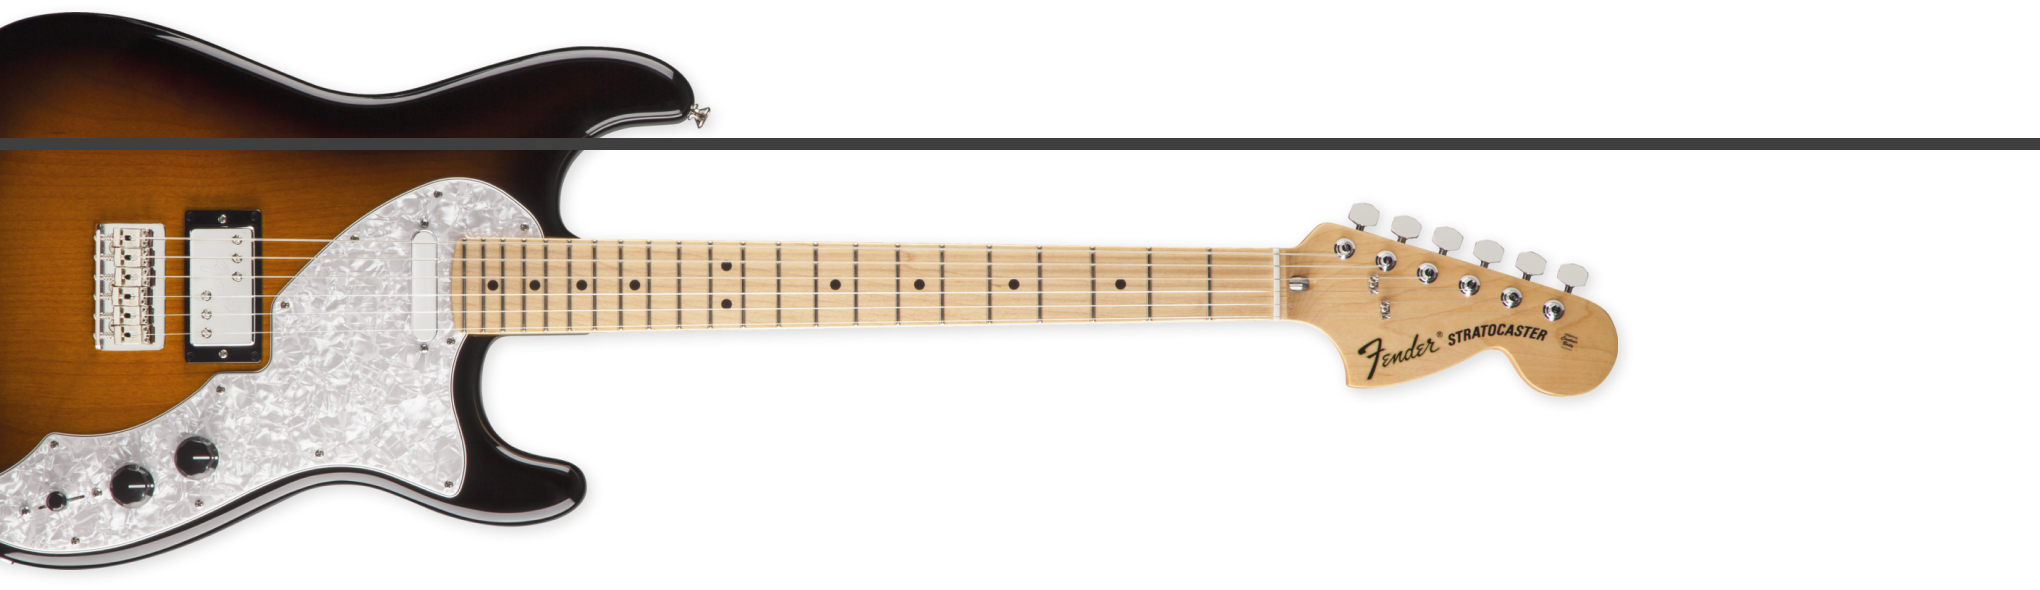
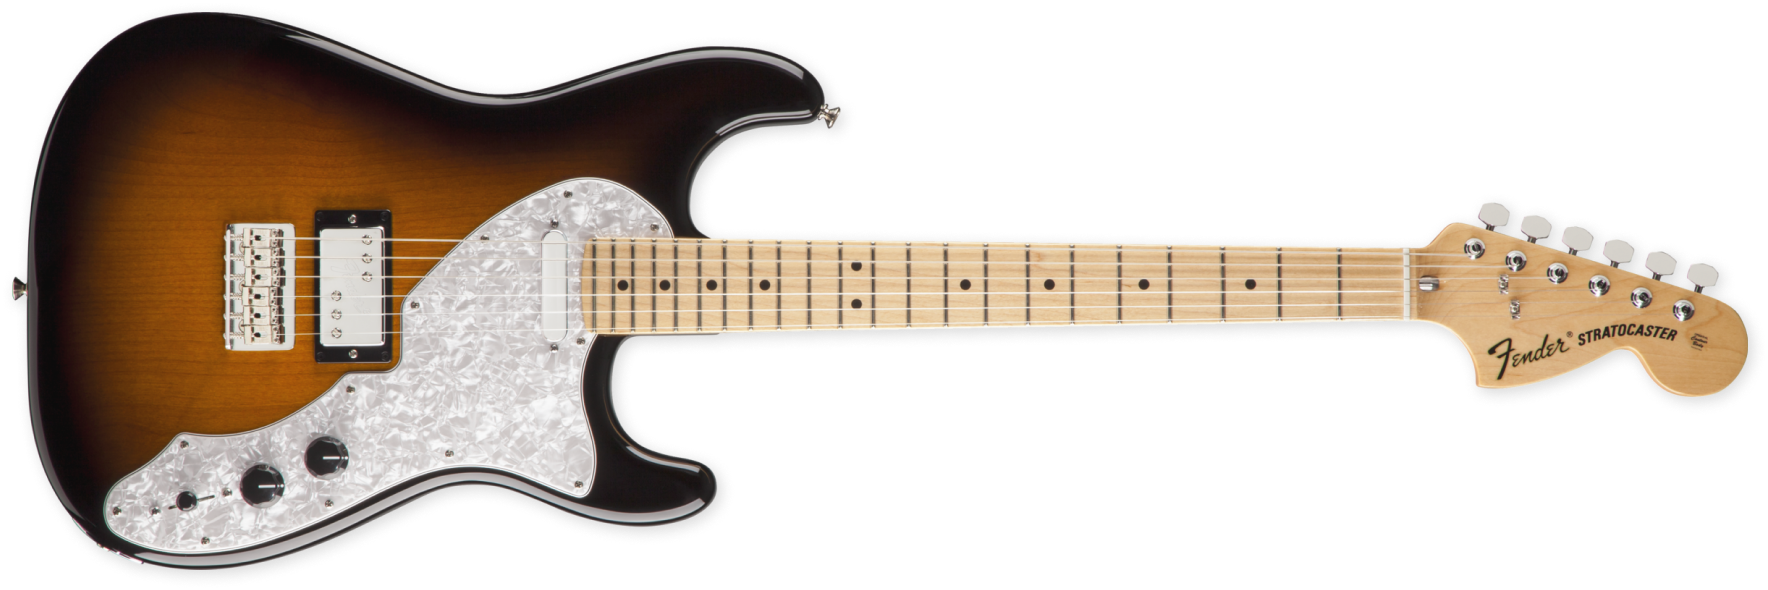
Fixed guitar background

diff --git a/src/components/footer/footer.scss b/src/components/footer/footer.scss
@@ -4,9 +4,38 @@
 @import '../../styles/title.scss';
 
 .footer {
-    z-index: 20;
     position: relative;
     background-color: $dark-grey;
+    &::after {
+        content: "";
+        display: block;
+        background-color: transparent;
+        background-image: url(../../img/guitar-footer.png);
+        background-repeat: no-repeat;
+        background-position: left;
+        position: absolute;
+        background-size: auto 100%;
+        width: 100%;
+        height: 282px;
+        top: -83px;
+        left: -5%;
+        z-index: -1;
+    }
+    &::before {
+        content: "";
+        display: block;
+        background-color: transparent;
+        background-image: url(../../img/line-footer.svg);
+        background-repeat: repeat;
+        background-position: left;
+        position: absolute;
+        background-size: contain;
+        width: 100%;
+        height: 6px;
+        top: -18px;
+        left: 0;
+        z-index: 1;
+    }
     @media screen and (min-width: $tablet-width) {
         padding-top: 58px;
         padding-bottom: 51px;
@@ -23,6 +52,24 @@
 .footer__wrapper {
     display: flex;
     flex-wrap: wrap;
+    position: relative;
+    // z-index: 11;
+    // &::after {
+    //     content: "";
+    //     display: block;
+    //     background-color: transparent;
+    //     background-image: url(../../img/guitar-footer.png);
+    //     background-repeat: no-repeat;
+    //     background-position: left;
+    //     position: absolute;
+    //     background-size: auto 100%;
+    //     width: 100%;
+    //     height: 282px;
+    //     top: -90px;
+    //     left: -6%;
+    //     z-index: 10;
+
+    // }
 }
 .footer__section {
     color: $basic-white;

diff --git a/src/components/main-page/main.scss b/src/components/main-page/main.scss
@@ -16,15 +16,16 @@
         content: "";
         display: block;
         background-color: transparent;
-        background-image: url(../../img/guitar-header-new.png);
+        background-image: url(../../img/guitar-header.png);
         background-repeat: no-repeat;
         background-position: center;
         position: absolute;
-        background-size: 100% 100%;
-        width: 107%;
-        height: 282px;
-        top: -32px;
-        left: 0;
+        background-size: auto 100%;
+        width: 100%;
+        width: 885px;
+        height: 303px;
+        top: -43px;
+        right: -6%;
         z-index: 10;
 
     }
@@ -32,17 +33,16 @@
         content: "";
         display: block;
         background-color: transparent;
-        background-image: url(../../img/guitar-footer-new.png);
-        background-repeat: no-repeat;
-        background-position: center;
+        background-image: url(../../img/lines-header.svg);
+        background-repeat: repeat;
+        background-position: left;
         position: absolute;
-        background-size: 100% 106%;
-        width: 106%;
-        height: 282px;
-        bottom: -202px;
-        left: -6%;
-        z-index: 10;
-
+        background-size: contain;
+        width: 100%;
+        height: 74px;
+        top: 22px;
+        left: -5px;
+        z-index: 9;
     }
     &--catalog {
         padding-top: 227px;

diff --git a/src/components/main-page/main-page.jsx b/src/components/main-page/main-page.jsx
@@ -3,12 +3,19 @@ import './main.scss';
 import Catalog from '../catalog/catalog.jsx';
 import Header from '../header/header';
 import Footer from '../footer/footer';
+// import {ReactComponent as LineHeader} from '../../img/line-header.svg';
 
 const MainPage = () => {
+//   const linesHeaderArray = [1, 2, 3, 4, 5, 6];
   return <>
     <Header isMainPage={true}/>
     <main className="main main--catalog">
       <h1 className="visually-hidden">Your Guitar Shop</h1>
+      {/* <div className="main__lines-header">
+        {linesHeaderArray.map((line) => {
+          return <LineHeader key={line}/>;
+        })}
+      </div> */}
       <Catalog/>
     </main>
     <Footer isMainPage={true}/>
